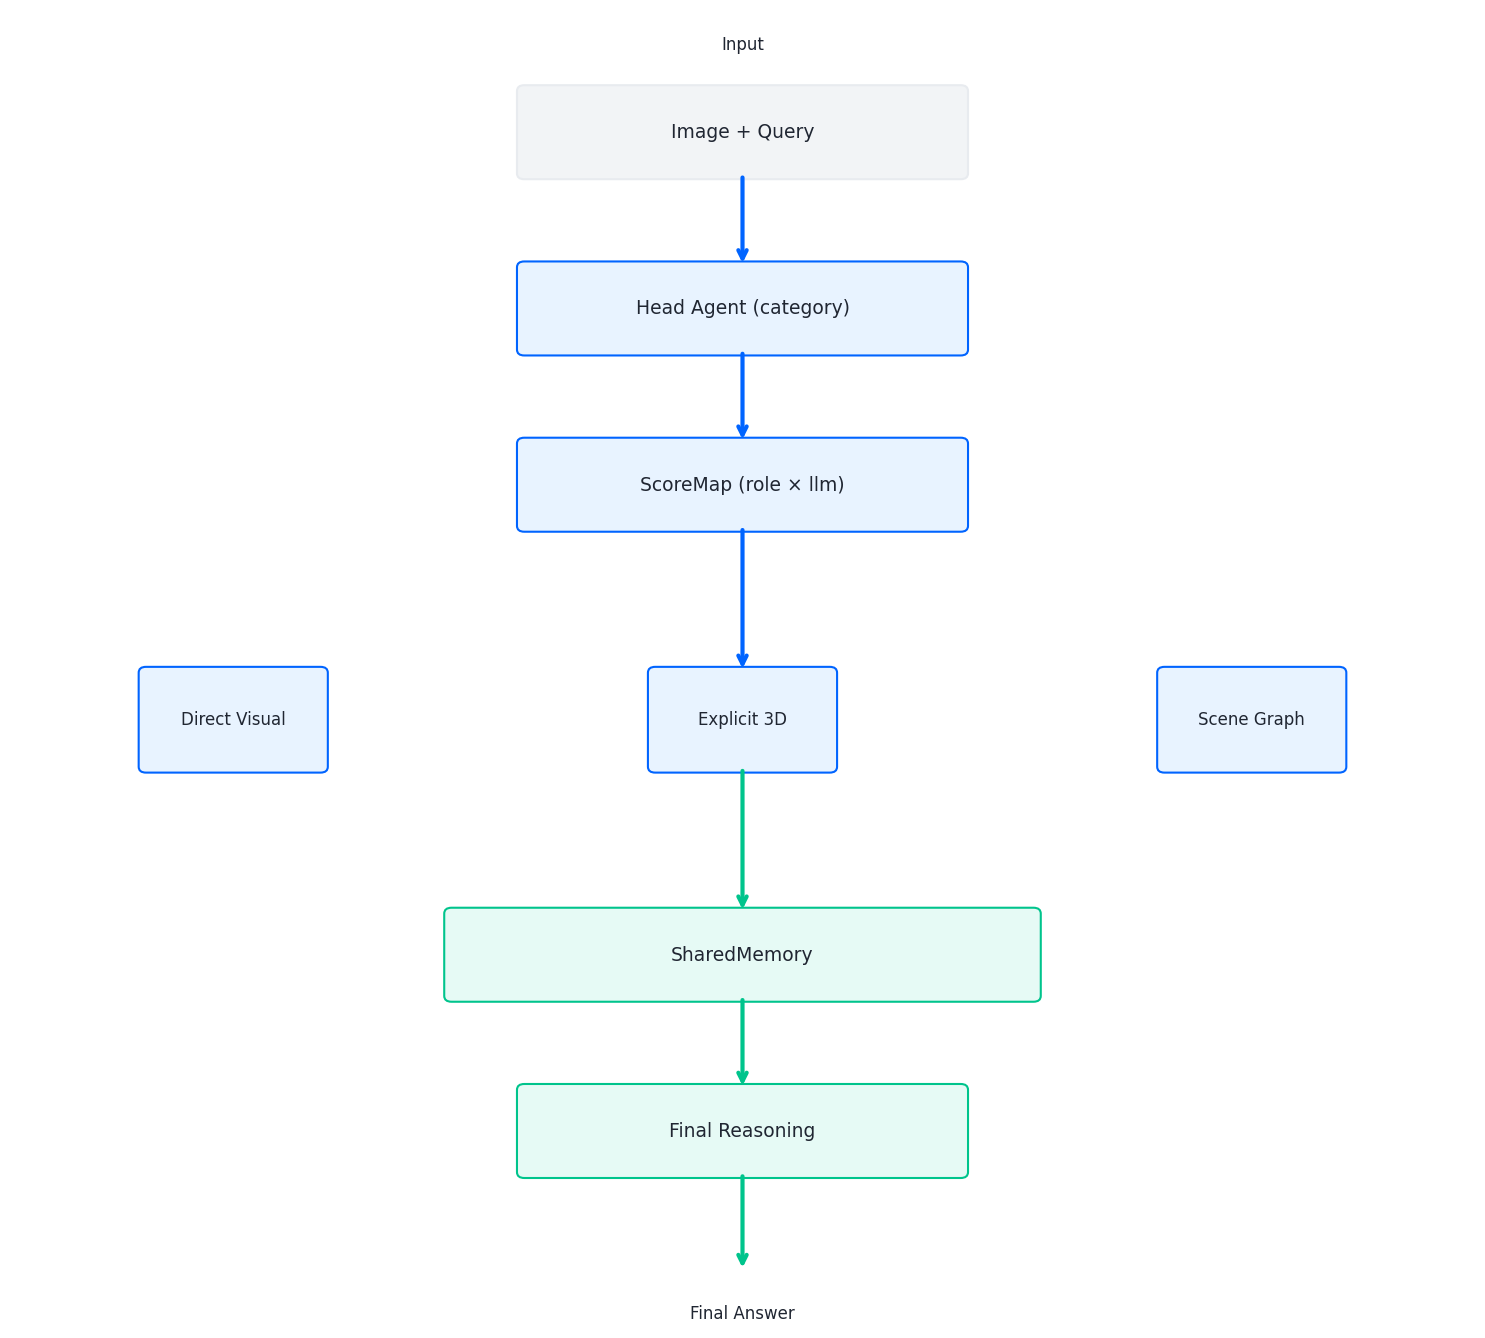
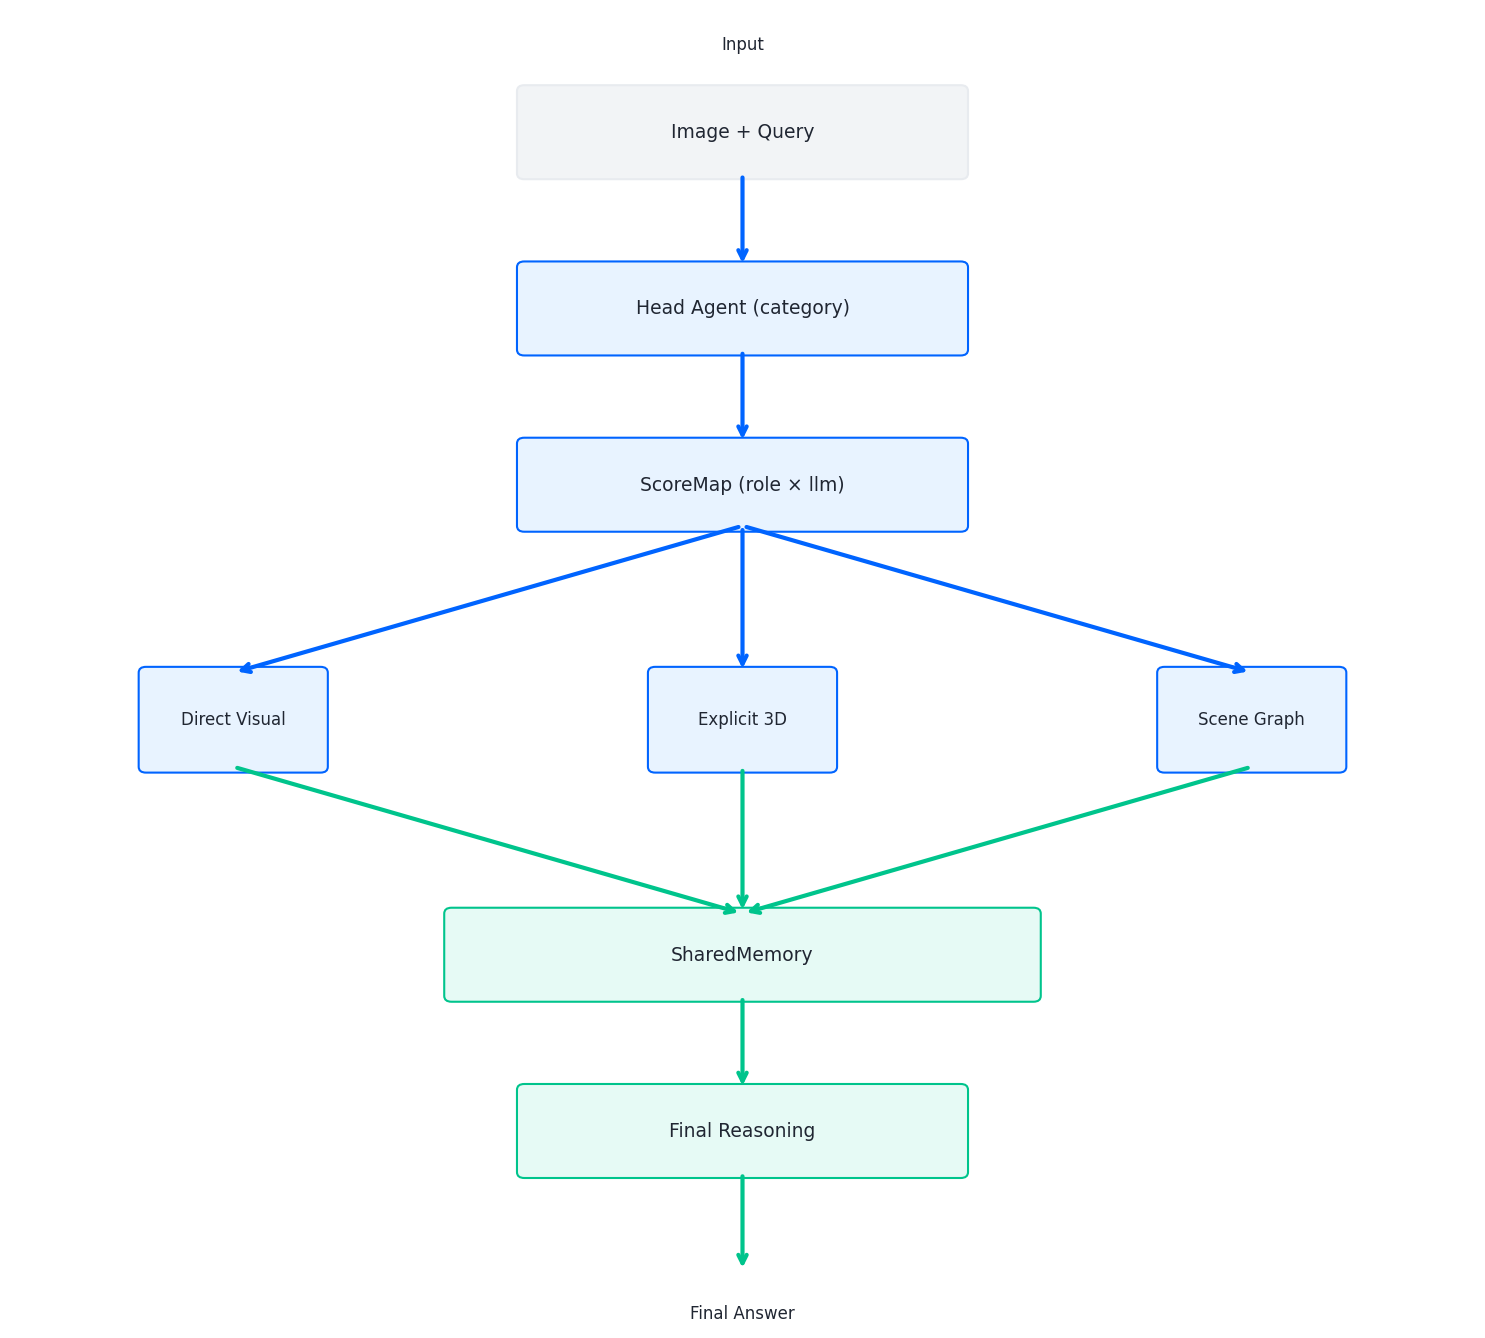
Restore heatmap RdYlGn; connect all 3 specialists in pipeline diagram
- Heatmap: revert to original RdYlGn colormap
- Pipeline: add arrows ScoreMap→Direct Visual, Explicit 3D, Scene Graph
- Pipeline: add arrows Direct Visual, Explicit 3D, Scene Graph→SharedMemory

Made-with: Cursor

diff --git a/scripts/figures/gen_appendix_figures.py b/scripts/figures/gen_appendix_figures.py
@@ -57,7 +57,7 @@ def load_agent_profiles():
 
 
 def gen_model_profiles_heatmap():
-    """Generate model x category performance heatmap (Toss colors)."""
+    """Generate model x category performance heatmap (original RdYlGn)."""
     try:
         import numpy as np
         import matplotlib
@@ -84,11 +84,8 @@ def gen_model_profiles_heatmap():
     fig.patch.set_facecolor(TOSS["white"])
     ax.set_facecolor(TOSS["white"])
 
-    # Toss-style colormap: gray (low) -> blue (mid) -> mint (high)
-    from matplotlib.colors import LinearSegmentedColormap
-    colors_toss = [TOSS["gray_light"], TOSS["blue_bg"], TOSS["blue"], TOSS["mint"]]
-    cmap = LinearSegmentedColormap.from_list("toss", colors_toss, N=256)
-    im = ax.imshow(arr, aspect="auto", cmap=cmap, vmin=0, vmax=1)
+    # Original RdYlGn colormap (red=low, yellow=mid, green=high)
+    im = ax.imshow(arr, aspect="auto", cmap="RdYlGn", vmin=0, vmax=1)
 
     ax.set_xticks(range(len(cats)))
     ax.set_xticklabels(cats, rotation=45, ha="right", color=TOSS["gray"])
@@ -99,7 +96,7 @@ def gen_model_profiles_heatmap():
     for i in range(len(models)):
         for j in range(len(cats)):
             val = arr[i, j]
-            color = TOSS["white"] if val < 0.5 else TOSS["gray"]
+            color = "white" if val < 0.5 else "black"
             ax.text(j, i, f"{val:.2f}", ha="center", va="center", fontsize=8, color=color)
 
     cbar = plt.colorbar(im, ax=ax)
@@ -274,15 +271,22 @@ def gen_mas_pipeline_diagram():
                                 facecolor=TOSS["mint_bg"], edgecolor=TOSS["mint"]))
     ax.text(5, y_final, "Final Reasoning", ha="center", va="center", fontsize=9, color=TOSS["gray"])
 
-    # Arrows (top to bottom, correct direction)
+    # Arrows (top to bottom)
     ax.annotate("", xy=(5, y_head + 0.35), xytext=(5, y_input - 0.35),
                 arrowprops=dict(arrowstyle="->", color=TOSS["blue"], lw=2))
     ax.annotate("", xy=(5, y_scoremap + 0.35), xytext=(5, y_head - 0.35),
                 arrowprops=dict(arrowstyle="->", color=TOSS["blue"], lw=2))
-    ax.annotate("", xy=(5, y_specialists + 0.4), xytext=(5, y_scoremap - 0.35),
-                arrowprops=dict(arrowstyle="->", color=TOSS["blue"], lw=2))
-    ax.annotate("", xy=(5, y_shared + 0.35), xytext=(5, y_specialists - 0.4),
-                arrowprops=dict(arrowstyle="->", color=TOSS["mint"], lw=2))
+
+    # ScoreMap → all 3 specialists (branching)
+    for _, x in specialists:
+        ax.annotate("", xy=(x, y_specialists + 0.4), xytext=(5, y_scoremap - 0.35),
+                    arrowprops=dict(arrowstyle="->", color=TOSS["blue"], lw=2))
+
+    # All 3 specialists → SharedMemory (converging)
+    for _, x in specialists:
+        ax.annotate("", xy=(5, y_shared + 0.35), xytext=(x, y_specialists - 0.4),
+                    arrowprops=dict(arrowstyle="->", color=TOSS["mint"], lw=2))
+
     ax.annotate("", xy=(5, y_final + 0.35), xytext=(5, y_shared - 0.35),
                 arrowprops=dict(arrowstyle="->", color=TOSS["mint"], lw=2))
     ax.annotate("", xy=(5, y_output), xytext=(5, y_final - 0.35),
